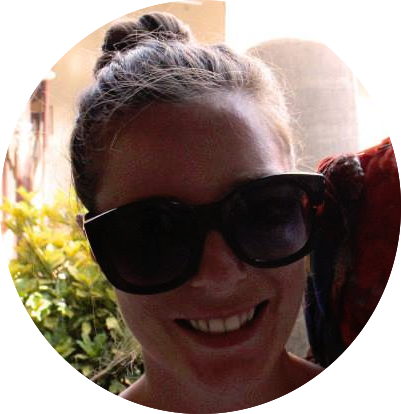
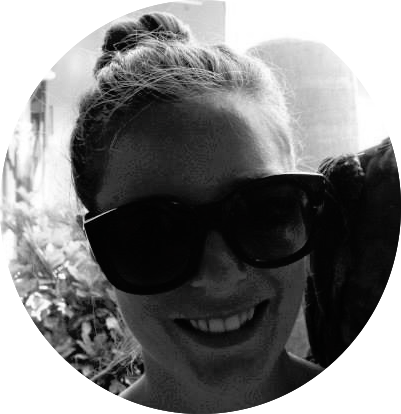
final speaker photo added

diff --git a/db/seeds.rb b/db/seeds.rb
@@ -6,7 +6,7 @@
 #   cities = City.create([{ name: 'Chicago' }, { name: 'Copenhagen' }])
 #   Mayor.create(name: 'Emanuel', city: cities.first)
 
-Speaker.create(name: 'LJ', description: 'LJ is an enthusiastic junior developer with a passion for creating responsive CSS layouts and hip hop music', image_url: 'http://placehold.it/150x150', talk: "How to run a hip hop website" )
+Speaker.create(name: 'LJ', description: 'LJ is an enthusiastic junior developer with a passion for creating responsive CSS layouts and hip hop music', image_url: 'LJ.png', talk: "How to run a hip hop website" )
 
 Speaker.create(name: 'Nat', description: 'Nat is a great junior backend developer with a passion for getting kids interested in coding', image_url: 'Pranati.png', talk: "Ruby Basics" )
 
